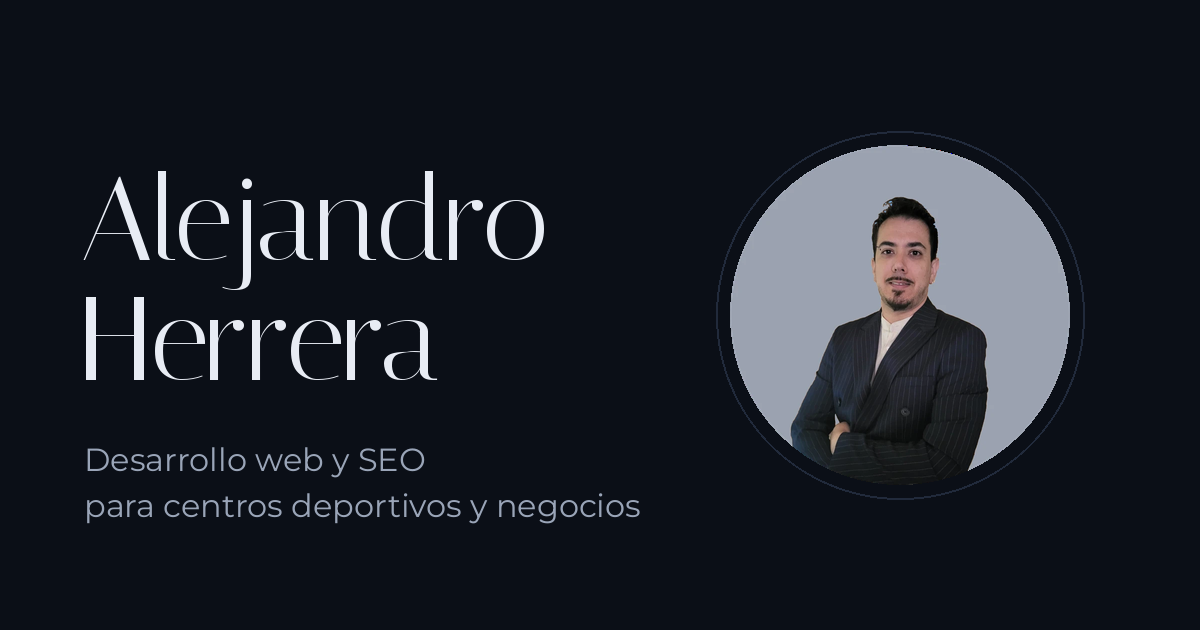
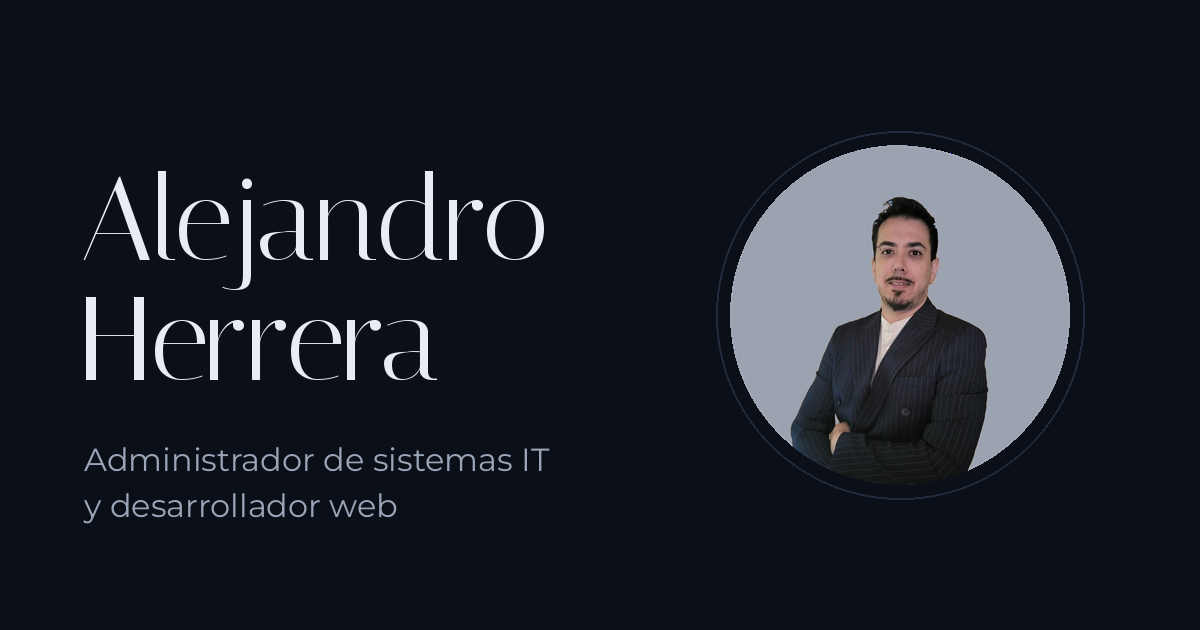
ajustes

Changed region(s): [[0.0617, 0.7841, 0.5242, 0.8444], [0.0617, 0.6937, 0.4625, 0.754]]

diff --git a/src/app/page.tsx b/src/app/page.tsx
@@ -5,12 +5,13 @@ import StackedScroll from "@/components/StackedScroll";
 const experience = [
   {
     period: "Ago. 2025 – actualidad",
-    role: "Desarrollador web y sistemas freelance",
+    role: "Administrador de sistemas y desarrollador web freelance",
     company: "Freelance · Train Movements Center",
     points: [
-      "Diseño y desarrollo de su nueva web con Next.js, React y CSS, desplegada en Vercel.",
+      "Securización de entornos en producción, backups semanales y migraciones de entorno.",
       "Limpieza de malware y recuperación de la web anterior en WordPress.",
-      "Mejoras SEO–SEM, backups semanales y migraciones de entorno.",
+      "Diseño y desarrollo de su nueva web con Next.js, React y CSS, desplegada en Vercel.",
+      "Mejoras SEO–SEM y propuestas proactivas de mejora para los sitios de los clientes.",
     ],
   },
   {
@@ -20,7 +21,8 @@ const experience = [
     points: [
       "Administración de proyectos Jira: workflows, roles, permisos, JQL y scripting con ScriptRunner (Groovy).",
       "Documentación en Confluence.",
-      "Administración de Jenkins: revisión de logs y monitorización de flujos.",
+      "Administración de Jenkins (revisión de logs y monitorización de flujos) y de contenedores Docker.",
+      "Monitorización de alertas con Grafana en diferentes pizarras.",
     ],
   },
   {
@@ -34,7 +36,20 @@ const experience = [
     ],
   },
 ];
-
+const projects = [
+  {
+    label: "Proyecto propio",
+    title: "Yumly Consulting",
+    url: "https://www.yumly.es",
+    text: "Consultoría IT y desarrollo web a medida para empresas y particulares: desarrollo con React y Next.js, soporte técnico, infraestructura y mantenimiento.",
+  },
+  {
+    label: "Cliente",
+    title: "Train Movements Center",
+    url: "https://www.trainmovementscenter.es",
+    text: "Nueva web con Next.js, React y CSS desplegada en Vercel, tras limpiar el malware de su WordPress anterior. Incluye las secciones de Rendimiento Deportivo y Valoración del Movimiento.",
+  },
+];
 const studies = [
   {
     period: "2023 – 2025",
@@ -52,22 +67,26 @@ const studies = [
 
 const skills = [
   {
-    group: "Desarrollo web",
-    items: ["Next.js", "React", "TypeScript", "CSS/SASS", "Vercel", "GitHub"],
+    group: "Sistemas",
+    items: ["Linux", "Windows", "VMware", "Docker", "SSH"],
   },
-  { group: "SEO / marketing", items: ["SEO técnico", "SEM", "Search Console"] },
-  { group: "Sistemas", items: ["Linux", "Windows", "VMware", "Docker", "SSH"] },
   {
-    group: "Gestión y soporte",
+    group: "Gestión y monitorización",
     items: [
       "Jira",
       "Confluence",
       "ScriptRunner",
       "Jenkins",
+      "Grafana",
       "ServiceNow",
       "Remedy",
     ],
   },
+  {
+    group: "Desarrollo web",
+    items: ["Next.js", "React", "TypeScript", "CSS/SASS", "Vercel", "GitHub"],
+  },
+  { group: "SEO / marketing", items: ["SEO técnico", "SEM", "Search Console"] },
 ];
 
 export default function Home() {
@@ -80,13 +99,13 @@ export default function Home() {
           <div>
             <h1 className="hero__title">Alejandro Herrera</h1>
             <p className="hero__subtitle">
-              Desarrollo web y SEO para centros deportivos y negocios que
-              quieren más visibilidad y más clientes.
+              Administrador de sistemas IT y desarrollador web: del servidor a
+              la web publicada.
             </p>
-                 <p className="hero__subtitle">
-             Disponible para proyectos y para incorporarme a un equipo
+            <p className="hero__availability">
+              Soporte N1-N3, entornos Windows y Linux, Atlassian y Next.js.
+              Disponible para incorporarme a un equipo o para proyectos.
             </p>
-            
             <div className="hero__actions">
               <a href="#experiencia" className="btn btn--primary">
                 Ver experiencia
@@ -94,14 +113,22 @@ export default function Home() {
               <a href="#contacto" className="btn btn--ghost">
                 Contactar
               </a>
-              <div className="hero__actions cv-actions">
-  <a href="/Cv Desarrollo alejandro.pdf" download className="btn btn--ghost">
-    CV desarrollo (PDF)
-  </a>
-  <a href="/Cv sistemas alejandro.pdf" download className="btn btn--ghost">
-    CV sistemas (PDF)
-  </a>
-</div>
+            </div>
+            <div className="hero__actions">
+              <a
+                href="/Cv_sistemas_alejandro.pdf"
+                download
+                className="btn btn--ghost"
+              >
+                CV sistemas (PDF)
+              </a>
+              <a
+                href="/Cv_Desarrollo_alejandro.pdf"
+                download
+                className="btn btn--ghost"
+              >
+                CV desarrollo (PDF)
+              </a>
             </div>
           </div>
           <Image
@@ -136,23 +163,46 @@ export default function Home() {
           </ol>
         </div>
       </section>
-
+<section id="proyectos" className="section" data-stack>
+  <div className="container">
+    <h2 className="section__title">Proyectos</h2>
+    <ol className="timeline">
+      {projects.map((p) => (
+        <li key={p.title} className="entry">
+          <p className="entry__period">{p.label}</p>
+          <div>
+            <h3 className="entry__title">{p.title}</h3>
+            <a
+              className="entry__link"
+              href={p.url}
+              target="_blank"
+              rel="noopener noreferrer"
+            >
+              {p.url.replace("https://", "")} ↗
+            </a>
+            <p className="entry__text">{p.text}</p>
+          </div>
+        </li>
+      ))}
+    </ol>
+  </div>
+</section>
       <section id="sobre-mi" className="section" data-stack>
         <div className="container">
           <h2 className="section__title">Sobre mí</h2>
           <div className="prose">
             <p>
-              Desarrollador web con base sólida en sistemas. Creo, rediseño y
-              mantengo sitios web con Next.js, React y CSS, y los combino con
-              estrategia SEO–SEM para que ganen visibilidad. Como freelance
-              desarrollé y publiqué en Vercel la nueva web de Train Movements
-              Center, tras limpiar el malware de su WordPress anterior.
+              Administrador de sistemas IT con experiencia en entornos Windows
+              y Linux, Cloud y On-Premise, y soporte técnico de nivel 1 a 3. He
+              administrado Jira y Confluence, Jenkins y VMware para clientes
+              como Orange y Santander Global Tech.
             </p>
             <p>
-              Vengo de entornos de producción exigentes: administré proyectos
-              Jira y Confluence, Jenkins y VMware para clientes como Orange y
-              Santander Global Tech, por eso cuido la seguridad, los backups y
-              las migraciones de cada proyecto.
+              Desde 2025 trabajo como freelance: aseguro entornos en
+              producción, gestiono backups y migraciones, y desarrollo webs con
+              Next.js, React y CSS. Publiqué en Vercel la nueva web de Train
+              Movements Center tras limpiar el malware de su WordPress
+              anterior.
             </p>
           </div>
           <div className="skills">
@@ -191,7 +241,6 @@ export default function Home() {
       </section>
 
       <section id="contacto" className="section section--contact" data-stack>
-        
         <div className="container">
           <h2 className="section__title">Contacto</h2>
           <p className="lead">

diff --git a/src/app/globals.css b/src/app/globals.css
@@ -2,7 +2,7 @@
    globals.css · Portfolio Alejandro Herrera
    Orden: 1 Tokens · 2 Base · 3 Layout · 4 Nav · 5 Botones
           6 Hero · 7 Timeline · 8 Sobre mí · 9 Contacto
-          10 Footer · 11 Movimiento
+          10 Footer · 11 Scroll apilado · 12 Movimiento
    ============================================================= */
 
 /* ---------- 1. Tokens ---------- */
@@ -268,16 +268,26 @@ p {
 }
 
 .hero__subtitle {
+  max-width: 38ch;
+  margin-bottom: 1rem;
   font-size: var(--fs-lead);
-  color: var(--text-muted);
-  max-width: 36ch;
+  color: var(--text);
+}
+
+.hero__availability {
+  max-width: 46ch;
   margin-bottom: 2.25rem;
+  color: var(--text-muted);
 }
 
 .hero__actions {
   display: flex;
   flex-wrap: wrap;
   gap: 0.75rem;
+}
+
+.hero__actions + .hero__actions {
+  margin-top: 0.75rem;
 }
 
 .hero__photo {
@@ -413,7 +423,9 @@ p {
 
 /* ---------- 9. Contacto ---------- */
 .section--contact {
-  min-height: 60vh;
+  min-height: 100svh;
+  display: flex;
+  align-items: center;
 }
 
 .lead {
@@ -441,7 +453,30 @@ p {
   }
 }
 
-/* ---------- 11. Movimiento ---------- */
+/* ---------- 11. Scroll apilado ---------- */
+/* Lo activa StackedScroll.tsx añadiendo .stack-ready a <html> */
+.stack-ready [data-stack] {
+  position: sticky;
+  background: var(--bg);
+  box-shadow: 0 -24px 48px rgb(0 0 0 / 0.25);
+}
+
+.stack-ready .hero[data-stack] {
+  box-shadow: none;
+}
+
+/* La sección que queda tapada se oscurece según --cover (0 a 1) */
+.stack-ready [data-stack]::after {
+  content: "";
+  position: absolute;
+  inset: 0;
+  z-index: 1;
+  background: #000;
+  opacity: calc(var(--cover, 0) * 0.6);
+  pointer-events: none;
+}
+
+/* ---------- 12. Movimiento ---------- */
 /* Una única secuencia de entrada, en el hero */
 @keyframes rise {
   from {
@@ -461,26 +496,17 @@ p {
 .hero__inner > :nth-child(2) {
   animation-delay: 0.15s;
 }
-/* ---------- Scroll apilado ---------- */
-.stack-ready [data-stack] {
-  position: sticky;
-  background: var(--bg);
-  box-shadow: 0 -24px 48px rgb(0 0 0 / 0.25);
+.entry__link {
+  display: inline-block;
+  margin-top: 0.15rem;
+  font-size: 0.95rem;
+  color: var(--accent);
 }
 
-.stack-ready .hero[data-stack] {
-  box-shadow: none;
+.entry__link:hover {
+  text-decoration: underline;
+  text-underline-offset: 4px;
 }
-.stack-ready [data-stack]::after {
-  content: "";
-  position: absolute;
-  inset: 0;
-  z-index: 1;
-  background: #000;
-  opacity: calc(var(--cover, 0) * 2);
-  pointer-events: none;
-}
-
 @media (prefers-reduced-motion: reduce) {
   *,
   *::before,
@@ -489,7 +515,4 @@ p {
     transition: none !important;
     scroll-behavior: auto !important;
   }
-}
-.cv-actions {
-  margin-top: 1rem;
 }

diff --git a/src/app/layout.tsx b/src/app/layout.tsx
@@ -8,7 +8,6 @@ const montserrat = Montserrat({
   display: "swap",
 });
 
-// Sustituye por tu fuente display (o usa next/font/local si es propia)
 const italiana = Italiana({
   subsets: ["latin"],
   weight: "400",
@@ -16,16 +15,18 @@ const italiana = Italiana({
   display: "swap",
 });
 
+const title = "Alejandro Herrera · Administrador de sistemas y desarrollador web";
+const description =
+  "Administrador de sistemas IT y desarrollador web. Soporte N1-N3, entornos Windows y Linux, Jira y Confluence, y webs con Next.js.";
+
 export const metadata: Metadata = {
   metadataBase: new URL("https://cv.yumly.es"),
-  title: "Alejandro Herrera · Desarrollo web y SEO",
-  description:
-    "Desarrollo web, consultoría y posicionamiento SEO para centros deportivos y negocios.",
+  title,
+  description,
   alternates: { canonical: "/" },
   openGraph: {
-    title: "Alejandro Herrera · Desarrollo web y SEO",
-    description:
-      "Desarrollo web, consultoría y posicionamiento SEO para centros deportivos y negocios.",
+    title,
+    description,
     url: "/",
     siteName: "Alejandro Herrera",
     type: "website",
@@ -93,7 +94,7 @@ export default function RootLayout({
 
         <footer className="footer">
           <div className="container">
-            © 2026 Alejandro Herrera
+            © {new Date().getFullYear()} Alejandro Herrera
           </div>
         </footer>
       </body>
